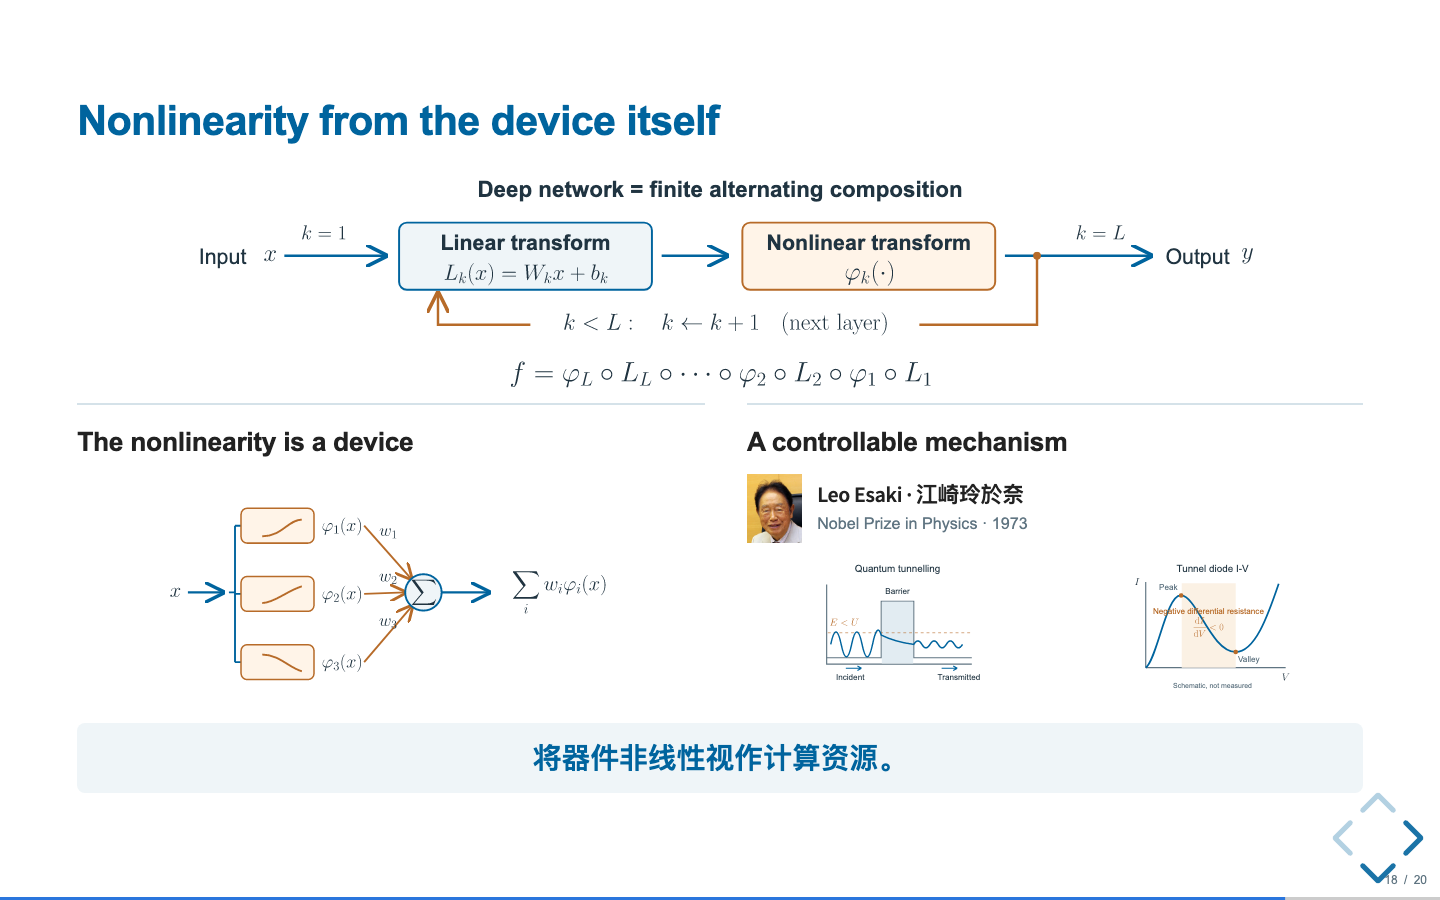
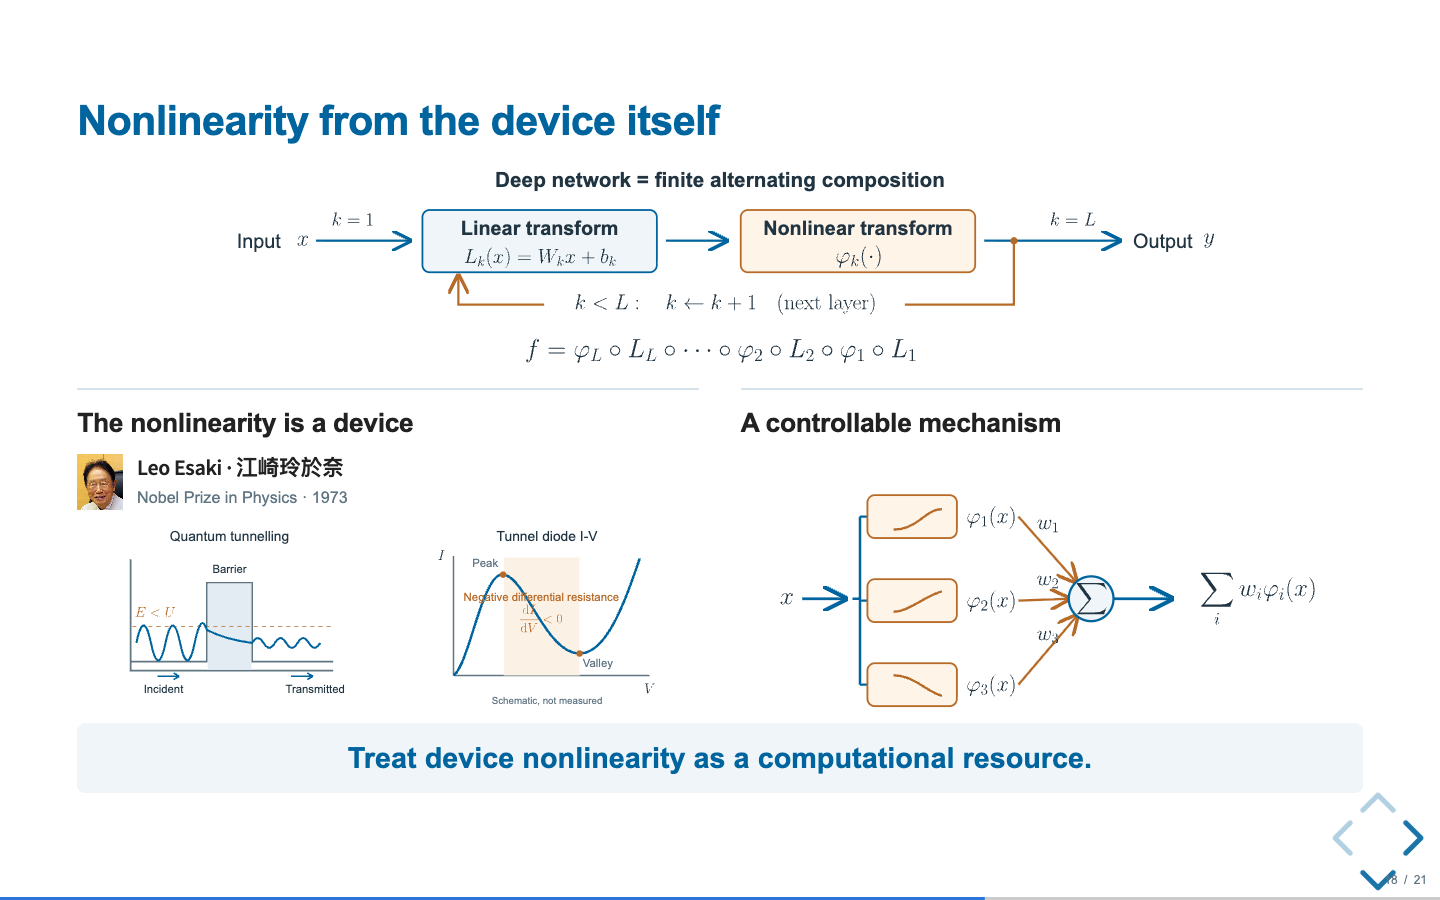
Refine opening keynote nonlinearity slide layout

diff --git a/collections/research-talks/neuro-group-opening-keynote/presentation.css b/collections/research-talks/neuro-group-opening-keynote/presentation.css
@@ -156,16 +156,18 @@
 /* --- From memory or from compute --- */
 .reveal .framing-figure {display:block;width:100%;height:440px;object-fit:contain;}
 /* --- Nonlinearity from the device --- */
-.reveal .analogue-columns {grid-template-columns:1.02fr 1fr;gap:36px;}
-.reveal .chain-figure {display:block;width:100%;height:190px;object-fit:contain;margin:0 0 10px;}
-.reveal .basis-figure {display:block;width:100%;height:180px;object-fit:contain;}
-.reveal .esaki-profile {display:flex;gap:0;align-items:center;margin:0 0 12px;}
-.reveal .esaki-profile>a {display:block;line-height:0;flex:0 0 auto;}
-.reveal .esaki-profile img {width:48px;height:60px;object-fit:cover;object-position:center top;margin-right:13px;}
-.reveal .esaki-profile h4 {font-size:19px;font-weight:600;margin:0;letter-spacing:-.3px;text-transform:none;}
-.reveal .esaki-label {display:block;font-size:14px;line-height:1.4;color:var(--muted);margin-top:3px;}
-.reveal .physics-pair {display:grid;grid-template-columns:1fr 1fr;gap:12px;}
-.reveal .physics-pair img {display:block;width:100%;height:116px;object-fit:contain;}
+.reveal .analogue-slide h2 {margin-bottom:16px;}
+.reveal .analogue-slide .chain-figure {display:block;width:100%;height:176px;object-fit:contain;margin:0 0 18px;}
+.reveal .analogue-columns {grid-template-columns:1fr 1fr;gap:36px;}
+.reveal .analogue-columns>div {padding-top:14px;}
+.reveal .analogue-columns h3 {margin-bottom:12px;}
+.reveal .analogue-slide .basis-figure {display:block;width:100%;height:220px;object-fit:contain;}
+.reveal .analogue-slide .esaki-profile {display:flex;gap:12px;align-items:center;margin:0 0 10px;}
+.reveal .analogue-slide .esaki-profile img {width:40px;height:48px;object-fit:cover;object-position:center top;}
+.reveal .analogue-slide .esaki-profile h4 {font-size:19px;font-weight:600;margin:0;letter-spacing:-.3px;text-transform:none;}
+.reveal .analogue-slide .esaki-label {display:block;font-size:14px;line-height:1.4;color:var(--muted);margin-top:3px;}
+.reveal .analogue-slide .physics-pair {display:grid;grid-template-columns:1fr 1fr;gap:12px;}
+.reveal .analogue-slide .physics-pair img {display:block;width:100%;height:162px;object-fit:contain;}
 /* --- Application directions --- */
 .reveal .application-gallery {display:grid;grid-template-columns:repeat(3,minmax(0,1fr));gap:28px;margin-top:46px;}
 .reveal .application-gallery>div {min-width:0;height:448px;box-sizing:border-box;border-top:3px solid var(--blue);border-bottom:1px solid var(--line);padding:24px 12px 18px;background:linear-gradient(180deg,var(--panel),#fff 35%);}

diff --git a/collections/research-talks/neuro-group-opening-keynote/slides.md b/collections/research-talks/neuro-group-opening-keynote/slides.md
@@ -258,8 +258,8 @@ The comparison is about the order of design decisions. Starting from compute mak
 
 <img class="chain-figure" src="media/diagrams/finite-linear-nonlinear-composition.svg" alt="A deep network is a finite alternating composition. Input enters linear transform L k and nonlinear transform phi k. A return arrow advances to the next layer while k is less than L; at k equals L the result exits. The composition is phi L after L L, continuing through phi one after L one.">
 <div class="two-columns analogue-columns">
-<div><h3>The nonlinearity is a device</h3><img class="basis-figure" src="media/diagrams/device-function-basis.svg" alt="An input fans out to three device transfer curves, each weighted and summed to form the sum of w i phi i of x."></div>
-<div><h3>A controllable mechanism</h3><div class="esaki-profile"><img src="media/profiles/leo-esaki.jpg" alt="Portrait of Leo Esaki (江崎玲於奈)"><div><h4>Leo Esaki · 江崎玲於奈</h4><span class="esaki-label">Nobel Prize in Physics · 1973</span></div></div><div class="physics-pair"><img src="media/diagrams/quantum-tunnelling.svg" alt="Schematic of quantum tunnelling through a barrier."><img src="media/diagrams/tunnel-diode-iv.svg" alt="Schematic tunnel-diode current–voltage curve with a region of negative differential resistance."></div></div>
+<div><h3>The nonlinearity is a device</h3><div class="esaki-profile"><img src="media/profiles/leo-esaki.jpg" alt="Portrait of Leo Esaki (江崎玲於奈)"><div><h4>Leo Esaki · 江崎玲於奈</h4><span class="esaki-label">Nobel Prize in Physics · 1973</span></div></div><div class="physics-pair"><img src="media/diagrams/quantum-tunnelling.svg" alt="Schematic of quantum tunnelling through a barrier."><img src="media/diagrams/tunnel-diode-iv.svg" alt="Schematic tunnel-diode current–voltage curve with a region of negative differential resistance."></div></div>
+<div><h3>A controllable mechanism</h3><img class="basis-figure" src="media/diagrams/device-function-basis.svg" alt="An input fans out to three device transfer curves, each weighted and summed to form the sum of w i phi i of x."></div>
 </div>
 
 <p class="takeaway">Treat device nonlinearity as a computational resource.</p>
@@ -267,7 +267,7 @@ The comparison is about the order of design decisions. Starting from compute mak
 Note:
 The full-width transform diagram shows a finite feedforward composition f = φ_L ∘ L_L ∘ … ∘ φ_1 ∘ L_1. The return arrow is shorthand for proceeding to the next layer with k incremented, not recurrent feedback, an infinite iteration or weight sharing. Each layer may use different parameters. The diagram uses the common neural-network term “linear” for the affine map L_k(x) = W_k x + b_k; strictly it is linear only when the bias is zero. Some architectures omit a final activation or include residual branches; this figure expresses the basic alternating feedforward construction.
 The device-function basis illustrates weighted nonlinear device responses summed on the wire. The physics illustrations are translated from the reference deck; the new composition diagram is an original editable schematic. Visible explanatory paragraphs and the framework source line were removed at the speaker’s request. The takeaway now states that device nonlinearity is a computational resource. The source framework PDF remains at media/figures/kanalogue-framework.pdf for provenance, without an on-slide link.
-The mechanism column is the reference deck's: Leo Esaki shared the 1973 Nobel Prize in Physics for tunnelling in semiconductors, the tunnelling figure shows a particle reaching a barrier it does not have the energy to cross and still emerging with a smaller transmitted amplitude, and the tunnel diode's I–V shows a peak, a region where the current falls as the voltage rises, and a valley. That region is a controlled nonlinearity available from the device physics rather than from a circuit — the point of the brief's 利用器件物理特性实现可控非线性. Two qualifications the reference deck also carried, and which matter: the tunnelling and I–V figures are schematics, not measured data, with no voltages, currents, device parameters or performance marked; and the I–V figure plots the forward branch only, where negative differential resistance means the slope dI/dV is negative in that region, not that the static ratio V/I is negative. The Esaki portrait is the Japan Academy's, obtained through Wikimedia Commons under CC BY 4.0 and not modified; his Nobel work is background, not this group's result, and it is not presented as ours.
+The device column is the reference deck's: Leo Esaki shared the 1973 Nobel Prize in Physics for tunnelling in semiconductors, the tunnelling figure shows a particle reaching a barrier it does not have the energy to cross and still emerging with a smaller transmitted amplitude, and the tunnel diode's I–V shows a peak, a region where the current falls as the voltage rises, and a valley. That region is a controlled nonlinearity available from the device physics rather than from a circuit — the point of the brief's 利用器件物理特性实现可控非线性. Two qualifications the reference deck also carried, and which matter: the tunnelling and I–V figures are schematics, not measured data, with no voltages, currents, device parameters or performance marked; and the I–V figure plots the forward branch only, where negative differential resistance means the slope dI/dV is negative in that region, not that the static ratio V/I is negative. The Esaki portrait is the Japan Academy's, obtained through Wikimedia Commons under CC BY 4.0 and not modified; his Nobel work is background, not this group's result, and it is not presented as ours.
 The framework is KANalogue: Device-Native Kolmogorov–Arnold Networks for Analogue In-Memory Computing, by Songyuan Li, Teng Wang, Jinrong Tang, Ruiqi Liu and Xiangwei Zhu. It was listed in the team's own material as a NeurIPS 2026 submission under rebuttal; we have not independently verified a public published version, so it is not marked as accepted here. The reference deck's caveats carry over verbatim in substance: the comparison baseline it uses is a linear array followed by an ADC, digital nonlinear processing and a DAC, and the scheme aims to leave part of the continuous computation in the analogue domain, so it must not be claimed that the whole machine needs no converter, no digital logic or no control. "Node efficiency" is not TOPS/W — the two numbers are defined differently, and the reference material does not supply a common definition, so this deck shows no node-efficiency multiple, no power figure and no latency gain. The architectural benefit is a design target; the numerical and board-level evidence is a separate matter and is not on this slide.
 
 ==
